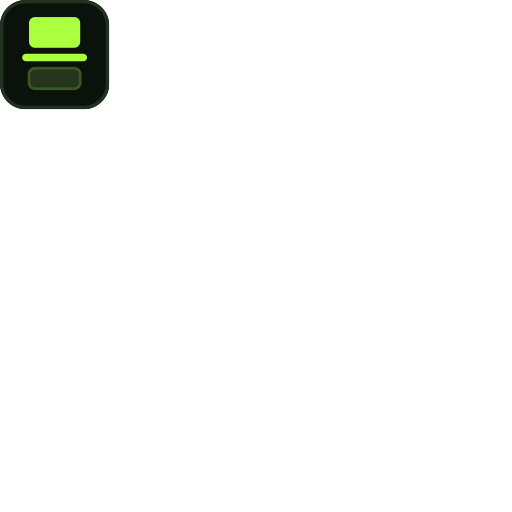
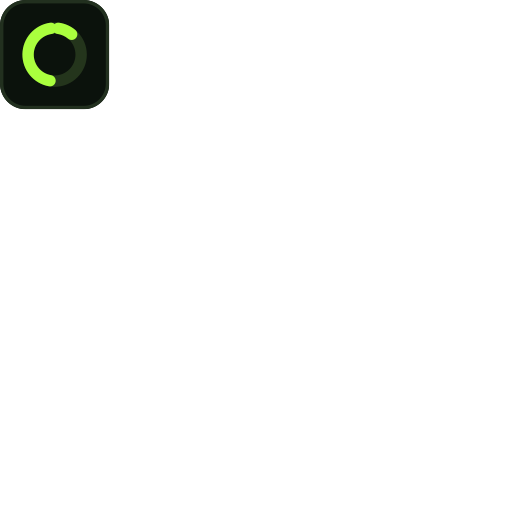
Return to Overfunded with a new gauge mark
The name goes back to Overfunded: the SolRent-style descriptive names are
already crowded (SolRentClaimer, SolRentClaim, RentSolClaimer, SolRefunds,
RefundYourSOL), and every one of them is an account closer. Sitting in that
pool would blur the one thing that makes this different, for a head term
those incumbents already hold. The SEO lives in the title tags, the field
guide and the blog, none of which depend on the brand.

The mark is now a gauge whose arc climbs past a FULL notch at the top —
overfunded, drawn literally — and it doubles as the O of the wordmark. The
notch is a real gap in the arc rather than a background-coloured overlay, so
it renders correctly on any surface and inherits currentColor.

Full asset set rebuilt: favicon, 512px icon, lockup, 400x400 profile
picture, 1500x500 banner, 1200x630 Open Graph card. Verified legible down
to 16px.

Changed region(s): [[0.0312, 0.0312, 0.1875, 0.1875]]

diff --git a/app/classic/page.tsx b/app/classic/page.tsx
@@ -52,7 +52,7 @@ export default function Home() {
       </div>
 
       <nav className="nav">
-        <a className="brand" href="#top" aria-label="SolRent home"><span className="brand-mark" aria-hidden="true">L</span><span>SOLRENT</span></a>
+        <a className="brand" href="#top" aria-label="Overfunded home"><span className="brand-mark" aria-hidden="true">L</span><span>OVERFUNDED</span></a>
         <div className="nav-links"><a href="#difference">Why different</a><a href="#how">How it works</a><a href="#safety">Safety</a></div>
         <a className="wallet-button" href="/">Open the live app <span aria-hidden="true">↗</span></a>
       </nav>
@@ -85,7 +85,7 @@ export default function Home() {
           </div>
           <div className="never-close-alert" role="note">
             <strong>NO TOKEN ACCOUNTS ARE EVER CLOSED</strong>
-            <span>SolRent withdraws only excess rent. Your accounts and token balances stay intact.</span>
+            <span>Overfunded withdraws only excess rent. Your accounts and token balances stay intact.</span>
           </div>
           {isResults && <div className="fee-preview"><span>Service fee <b>0.004210 SOL</b></span><span>You receive <strong>0.079985 SOL</strong></span></div>}
           <button className="reclaim-button" type="button" disabled={busy} onClick={isResults ? reclaimDemo : loadDemo}>{isResults ? 'Play the demo reclaim (0.079985 SOL)' : busy ? 'Scanning accounts…' : 'Run the demo scan'}</button>
@@ -109,7 +109,7 @@ export default function Home() {
         <div className="update-facts">
           <article><span>01</span><b>The network lowers rent</b><p>The required minimum changes as the reduced-rent rollout advances.</p></article>
           <article><span>02</span><b>Your account keeps the old deposit</b><p>Nothing automatically sweeps the surplus back to your wallet.</p></article>
-          <article><span>03</span><b>SolRent returns the difference</b><p>Withdraw only the excess and leave the account live and rent-exempt.</p></article>
+          <article><span>03</span><b>Overfunded returns the difference</b><p>Withdraw only the excess and leave the account live and rent-exempt.</p></article>
           <a href="https://solana.com/upgrades/reduced-rent" target="_blank" rel="noreferrer">Follow Solana’s official rollout <span>↗</span></a>
         </div>
       </section>
@@ -128,7 +128,7 @@ export default function Home() {
             <i>MODELLED ESTIMATE • NOT A LIVE BALANCE</i>
           </article>
           <article>
-            <span>CLAIMED THROUGH SOLRENT</span>
+            <span>CLAIMED THROUGH OVERFUNDED</span>
             <strong>$0</strong>
             <p>Pre-launch baseline. This counter will increase only after confirmed reclaim transactions.</p>
             <i>VERIFIABLE PRODUCT COUNTER</i>
@@ -170,7 +170,7 @@ export default function Home() {
         <div className="difference-heading">
           <p className="section-kicker">NOT ANOTHER INCINERATOR</p>
           <h2>Recover the surplus.<br /><em>Keep the account.</em></h2>
-          <p>Traditional cleanup tools recover rent by permanently closing eligible token accounts. SolRent uses a different Token Program instruction that withdraws only what sits above today’s rent floor.</p>
+          <p>Traditional cleanup tools recover rent by permanently closing eligible token accounts. Overfunded uses a different Token Program instruction that withdraws only what sits above today’s rent floor.</p>
         </div>
         <div className="comparison-wrap">
           <div className="comparison-cards">
@@ -181,13 +181,13 @@ export default function Home() {
             </article>
             <div className="versus">VS</div>
             <article className="compare-card lamport-card">
-              <div className="compare-top"><span>SOLRENT RECLAIM</span><i>NON-DESTRUCTIVE</i></div>
+              <div className="compare-top"><span>OVERFUNDED RECLAIM</span><i>NON-DESTRUCTIVE</i></div>
               <div className="account-visual"><div className="account-symbol">◎</div><div><b>Token account</b><span>8kP3…xR42</span></div><strong>OPEN</strong></div>
               <p>Recovers only the excess. The account keeps its address, tokens, and current rent reserve.</p>
             </article>
           </div>
-          <div className="comparison-table" role="table" aria-label="Account closer compared with SolRent">
-            <div className="compare-row compare-head" role="row"><span role="columnheader">WHAT CHANGES</span><b role="columnheader">ACCOUNT CLOSER</b><strong role="columnheader">SOLRENT</strong></div>
+          <div className="comparison-table" role="table" aria-label="Account closer compared with Overfunded">
+            <div className="compare-row compare-head" role="row"><span role="columnheader">WHAT CHANGES</span><b role="columnheader">ACCOUNT CLOSER</b><strong role="columnheader">OVERFUNDED</strong></div>
             <div className="compare-row" role="row"><span role="cell">Instruction</span><b role="cell">CloseAccount</b><strong role="cell">WithdrawExcessLamports</strong></div>
             <div className="compare-row" role="row"><span role="cell">Account afterward</span><b role="cell">Deleted</b><strong role="cell">Stays open</strong></div>
             <div className="compare-row" role="row"><span role="cell">Token balance</span><b role="cell">Must be handled first</b><strong role="cell">Untouched</strong></div>
@@ -195,7 +195,7 @@ export default function Home() {
             <div className="compare-row" role="row"><span role="cell">SOL recovered</span><b role="cell">Entire rent reserve</b><strong role="cell">Only the new surplus</strong></div>
             <div className="compare-row" role="row"><span role="cell">Best for</span><b role="cell">Dead, empty accounts</b><strong role="cell">Active accounts you keep</strong></div>
           </div>
-          <p className="difference-note"><b>Zero close instructions.</b> A SolRent reclaim transaction contains no account-closing step. You review every instruction before signing.</p>
+          <p className="difference-note"><b>Zero close instructions.</b> A Overfunded reclaim transaction contains no account-closing step. You review every instruction before signing.</p>
         </div>
       </section>
 
@@ -253,7 +253,7 @@ export default function Home() {
       </section>
 
       <footer>
-        <a className="brand footer-brand" href="#top"><span className="brand-mark" aria-hidden="true">L</span><span>SOLRENT</span></a>
+        <a className="brand footer-brand" href="#top"><span className="brand-mark" aria-hidden="true">L</span><span>OVERFUNDED</span></a>
         <p>Built for Solana’s reduced-rent era.</p>
         <div><a href="https://solana.com/upgrades/reduced-rent" target="_blank" rel="noreferrer">Rent rollout</a><a href="/">Live app</a><a href="#safety">Safety</a></div>
       </footer>

diff --git a/app/fun/page.tsx b/app/fun/page.tsx
@@ -25,7 +25,7 @@ export default function FunPrototype() {
         <span>SOLANA RENT DROPPED&nbsp; ✦ &nbsp;YOUR ACCOUNTS STAY OPEN&nbsp; ✦ &nbsp;CLAIM THE EXTRA&nbsp; ✦ &nbsp;SOLANA RENT DROPPED</span>
       </div>
       <nav className="fun-nav">
-        <a className="fun-brand" href="/fun"><i><BrandMark /></i><b>SOLRENT</b><em>FUN LAB</em></a>
+        <a className="fun-brand" href="/fun"><i><BrandMark /></i><b>OVERFUNDED</b><em>FUN LAB</em></a>
         <div className="fun-nav-links"><a href="#why">Why different</a><a href="#how">How it works</a><a href="/solana-rent-reduction">How the cut works ↗</a></div>
         <a className="fun-nav-cta" href="/">OPEN LIVE APP <span>↗</span></a>
       </nav>
@@ -34,7 +34,7 @@ export default function FunPrototype() {
         <div className="fun-hero-copy">
           <div className="fun-badge"><span>●</span> SOLANA JUST CHANGED THE RENT RULES</div>
           <h1>Your SOL is<br /><em>hiding in plain sight.</em></h1>
-          <p>Old token accounts may be holding more rent than they need. SolRent finds the extra and sends it home—without deleting a thing.</p>
+          <p>Old token accounts may be holding more rent than they need. Overfunded finds the extra and sends it home—without deleting a thing.</p>
           <div className="fun-actions">
             <button className="fun-primary" type="button" onClick={runDemo}>FIND MY SOL <span>→</span></button>
             <a href="#why">WHY THIS IS DIFFERENT</a>
@@ -58,7 +58,7 @@ export default function FunPrototype() {
         <div className="fun-section-heading">
           <p>THE SERIOUS PART</p>
           <h2>Fun on the surface.<br /><em>Strict underneath.</em></h2>
-          <span>SolRent is not an account burner. It uses the Token Program’s excess-lamport withdrawal path to move only what sits above today’s rent floor.</span>
+          <span>Overfunded is not an account burner. It uses the Token Program’s excess-lamport withdrawal path to move only what sits above today’s rent floor.</span>
         </div>
         <div className="fun-proof-grid">
           <article className="fun-proof-hero">
@@ -72,8 +72,8 @@ export default function FunPrototype() {
         </div>
       </section>
 
-      <section className="fun-versus" aria-label="Account closing compared with SolRent reclaim">
-        <div className="fun-versus-title"><span>DELETE BUTTON ENERGY</span><h2>Burner <b>vs.</b> SolRent</h2></div>
+      <section className="fun-versus" aria-label="Account closing compared with Overfunded reclaim">
+        <div className="fun-versus-title"><span>DELETE BUTTON ENERGY</span><h2>Burner <b>vs.</b> Overfunded</h2></div>
         <div className="fun-versus-card bad">
           <div className="fun-card-tag">TRADITIONAL CLOSER</div>
           <strong>ACCOUNT DELETED</strong>
@@ -81,7 +81,7 @@ export default function FunPrototype() {
           <p>Recovers the full rent deposit by permanently closing an eligible empty account.</p>
         </div>
         <div className="fun-versus-card good">
-          <div className="fun-card-tag">SOLRENT RECLAIM</div>
+          <div className="fun-card-tag">OVERFUNDED RECLAIM</div>
           <strong>ONLY EXTRA SOL MOVES</strong>
           <div className="fun-mini-account"><i>◎</i><span>Token account<br /><small>8kP3…xR42</small></span><b>OPEN</b></div>
           <p>Leaves the current rent reserve, account address, and every token exactly where they are.</p>
@@ -100,7 +100,7 @@ export default function FunPrototype() {
       <section className="fun-ledger">
         <div className="fun-ledger-copy"><p>THE BIG NUMBER, LABELED HONESTLY</p><h2>A lot of SOL may be<br /><em>waiting for a ride home.</em></h2><span>Network figures are estimates until a complete public index is running. Your personal result is calculated account by account.</span></div>
         <div className="fun-number-card"><small>MODELED NETWORK OPPORTUNITY</small><strong>~$310M</strong><p>Directional estimate across the complete reduced-rent rollout—not a live wallet balance or audited total.</p><i>ESTIMATE · CHANGES WITH SOL PRICE + NETWORK STATE</i></div>
-        <div className="fun-number-card small"><small>CLAIMED THROUGH SOLRENT</small><strong>$0</strong><p>Pre-launch baseline. This moves only after confirmed reclaim transactions.</p><i>VERIFIABLE PRODUCT COUNTER</i></div>
+        <div className="fun-number-card small"><small>CLAIMED THROUGH OVERFUNDED</small><strong>$0</strong><p>Pre-launch baseline. This moves only after confirmed reclaim transactions.</p><i>VERIFIABLE PRODUCT COUNTER</i></div>
       </section>
 
       <section className="fun-final">
@@ -111,7 +111,7 @@ export default function FunPrototype() {
         <a href="/">Reclaim real SOL on the live app ↗</a>
       </section>
 
-      <footer className="fun-footer"><a className="fun-brand" href="/fun"><i><BrandMark /></i><b>SOLRENT</b><em>FUN LAB</em></a><p>Built for Solana’s reduced-rent era.</p><div><a href="/">Live app</a><a href="/solana-rent-reduction">How the cut works</a><a href="#why">Safety</a></div></footer>
+      <footer className="fun-footer"><a className="fun-brand" href="/fun"><i><BrandMark /></i><b>OVERFUNDED</b><em>FUN LAB</em></a><p>Built for Solana’s reduced-rent era.</p><div><a href="/">Live app</a><a href="/solana-rent-reduction">How the cut works</a><a href="#why">Safety</a></div></footer>
     </main>
   );
 }

diff --git a/app/game/page.tsx b/app/game/page.tsx
@@ -247,7 +247,7 @@ export default function GamePrototype() {
   return (
     <main className={`game-shell quest-${quest} ${accounts.length ? 'has-loot' : 'no-loot'}`}>
       <nav className="game-nav">
-        <a className="game-brand" href="/"><i><BrandMark /></i><span><b>SOLRENT</b><small>SOLANA RENT</small></span></a>
+        <a className="game-brand" href="/"><i><BrandMark /></i><span><b>OVERFUNDED</b><small>SOLANA RENT</small></span></a>
         <div className="game-nav-stats"><span>MODE <b>SAFE</b></span><span>ACCOUNTS CLOSED <b>0</b></span><span>NETWORK <b>MAINNET</b></span></div>
         <button type="button" onClick={connectAndScan} disabled={busy}>{wallet ? shortenAddress(wallet) : busy ? 'SCANNING…' : 'CONNECT WALLET'} <span>+</span></button>
       </nav>
@@ -505,20 +505,20 @@ export default function GamePrototype() {
       </section>
 
       <section className="game-battle" id="safety">
-        <div className="battle-head"><small>KNOW YOUR OPPONENT</small><h2>This is not<br /><em>an incinerator.</em></h2><p>Traditional cleanup tools reclaim rent by closing eligible accounts. SolRent’s target is different: surplus rent inside accounts you want to keep.</p></div>
+        <div className="battle-head"><small>KNOW YOUR OPPONENT</small><h2>This is not<br /><em>an incinerator.</em></h2><p>Traditional cleanup tools reclaim rent by closing eligible accounts. Overfunded’s target is different: surplus rent inside accounts you want to keep.</p></div>
         <div className="battle-arena">
           <article className="battle-card enemy"><div className="battle-name"><span>ACCOUNT CLOSER</span><b>DESTRUCTIVE MOVE</b></div><i className="battle-icon">×</i><strong>CLOSE ACCOUNT</strong><ul><li>Account is deleted</li><li>Address stops working</li><li>Empty balance required</li></ul><em>USE ON DEAD ACCOUNTS</em></article>
           <div className="battle-vs">VS</div>
-          <article className="battle-card hero"><div className="battle-name"><span>SOLRENT</span><b>SAFE MOVE</b></div><i className="battle-icon">L</i><strong>WITHDRAW EXCESS</strong><ul><li>Account stays open</li><li>Address stays usable</li><li>Tokens stay untouched</li></ul><em>USE ON LIVE ACCOUNTS</em></article>
+          <article className="battle-card hero"><div className="battle-name"><span>OVERFUNDED</span><b>SAFE MOVE</b></div><i className="battle-icon">L</i><strong>WITHDRAW EXCESS</strong><ul><li>Account stays open</li><li>Address stays usable</li><li>Tokens stay untouched</li></ul><em>USE ON LIVE ACCOUNTS</em></article>
         </div>
-        <div className="battle-alert"><b>!</b><span><strong>PERMADEATH DISABLED</strong>No account-closing instruction appears in a SolRent reclaim transaction.</span><i>0 CLOSED</i></div>
+        <div className="battle-alert"><b>!</b><span><strong>PERMADEATH DISABLED</strong>No account-closing instruction appears in a Overfunded reclaim transaction.</span><i>0 CLOSED</i></div>
         <div className="battle-source"><div><b>DON’T TAKE OUR WORD FOR IT</b><span>Every instruction this site builds is in the open. Read the transaction builder, check the fee maths, and verify the rent floor against your own node.</span></div><a href={SOURCE_URL} target="_blank" rel="noreferrer">READ THE SOURCE ON GITHUB ↗</a></div>
       </section>
 
       <section className="game-ledger">
         <div className="ledger-title"><small>WORLD MAP</small><h2>The rent-recovery<br /><em>opportunity.</em></h2><p>Network totals are modeled estimates. Your actual result is calculated from the public state of the accounts in your wallet.</p></div>
         <div className="ledger-screen primary"><span>ESTIMATED LEFT TO UNLOCK</span><strong>~$310M</strong><p>Directional estimate across the complete reduced-rent rollout.</p><i>MODELLED · NOT A LIVE BALANCE</i></div>
-        <div className="ledger-screen"><span>CLAIMED THROUGH SOLRENT</span><strong>$0</strong><p>Pre-launch baseline. Updates only after verified reclaim transactions.</p><i>VERIFIABLE COUNTER</i></div>
+        <div className="ledger-screen"><span>CLAIMED THROUGH OVERFUNDED</span><strong>$0</strong><p>Pre-launch baseline. Updates only after verified reclaim transactions.</p><i>VERIFIABLE COUNTER</i></div>
         <div className="ledger-screen"><span>ACCOUNTS CLOSED</span><strong>0</strong><p>The defining score. It never moves.</p><i>NON-DESTRUCTIVE FOREVER</i></div>
       </section>
 
@@ -562,7 +562,7 @@ export default function GamePrototype() {
         ]) }}
       />
 
-      <footer className="game-footer"><a className="game-brand" href="/"><i><BrandMark /></i><span><b>SOLRENT</b><small>SOLANA RENT</small></span></a><p>BUILT FOR SOLANA’S REDUCED-RENT ERA</p><div><a href="/blog">Blog</a><a href="/solana-rent-reduction">How the cut works</a><a href={SOURCE_URL} target="_blank" rel="noreferrer">Source</a><a href="#safety">Safety</a></div></footer>
+      <footer className="game-footer"><a className="game-brand" href="/"><i><BrandMark /></i><span><b>OVERFUNDED</b><small>SOLANA RENT</small></span></a><p>BUILT FOR SOLANA’S REDUCED-RENT ERA</p><div><a href="/blog">Blog</a><a href="/solana-rent-reduction">How the cut works</a><a href={SOURCE_URL} target="_blank" rel="noreferrer">Source</a><a href="#safety">Safety</a></div></footer>
     </main>
   );
 }

diff --git a/app/blog/[slug]/page.tsx b/app/blog/[slug]/page.tsx
@@ -58,7 +58,7 @@ export default async function BlogPost({ params }: { params: Promise<{ slug: str
   return (
     <main className="blog-shell">
       <nav className="blog-nav">
-        <a className="blog-brand" href="/"><i><BrandMark /></i><span><b>SOLRENT</b><small>SOLANA RENT</small></span></a>
+        <a className="blog-brand" href="/"><i><BrandMark /></i><span><b>OVERFUNDED</b><small>SOLANA RENT</small></span></a>
         <a className="blog-nav-cta" href="/">SCAN MY WALLET →</a>
       </nav>
 
@@ -78,7 +78,7 @@ export default async function BlogPost({ params }: { params: Promise<{ slug: str
         <div className="post-inline-cta">
           <div>
             <b>SEE IT ON YOUR OWN WALLET</b>
-            <span>SolRent scans your SPL token accounts against the live rent floor and withdraws only the surplus. Nothing is closed, no tokens move, and the source is public.</span>
+            <span>Overfunded scans your SPL token accounts against the live rent floor and withdraws only the surplus. Nothing is closed, no tokens move, and the source is public.</span>
           </div>
           <a href="/">SCAN MY WALLET →</a>
         </div>
@@ -101,14 +101,14 @@ export default async function BlogPost({ params }: { params: Promise<{ slug: str
           description: post.description,
           datePublished: post.published,
           dateModified: post.published,
-          author: { '@type': 'Organization', name: 'SolRent' },
-          publisher: { '@type': 'Organization', name: 'SolRent' },
+          author: { '@type': 'Organization', name: 'Overfunded' },
+          publisher: { '@type': 'Organization', name: 'Overfunded' },
           mainEntityOfPage: { '@type': 'WebPage', '@id': `/blog/${post.slug}` },
         }) }}
       />
 
       <footer className="blog-footer">
-        <a className="blog-brand" href="/"><i><BrandMark /></i><span><b>SOLRENT</b><small>SOLANA RENT</small></span></a>
+        <a className="blog-brand" href="/"><i><BrandMark /></i><span><b>OVERFUNDED</b><small>SOLANA RENT</small></span></a>
         <div>
           <a href="/">Scanner</a>
           <a href="/blog">Writing</a>

diff --git a/app/solana-rent-reduction/page.tsx b/app/solana-rent-reduction/page.tsx
@@ -39,7 +39,7 @@ const FAQ = [
   },
   {
     q: 'Does reclaiming rent close my token accounts?',
-    a: 'No. SolRent uses WithdrawExcessLamports, which moves only the balance above the current rent-exempt minimum. The account stays open, stays rent-exempt, keeps its address, and keeps every token. No CloseAccount, Burn, or token transfer instruction is ever added.',
+    a: 'No. Overfunded uses WithdrawExcessLamports, which moves only the balance above the current rent-exempt minimum. The account stays open, stays rent-exempt, keeps its address, and keeps every token. No CloseAccount, Burn, or token transfer instruction is ever added.',
   },
   {
     q: 'Is it safe to connect my wallet?',
@@ -78,7 +78,7 @@ export default function RentCutPage() {
   return (
     <main className="srr-shell">
       <nav className="srr-nav">
-        <a className="srr-brand" href="/"><i><BrandMark /></i><span><b>SOLRENT</b><small>FIELD GUIDE</small></span></a>
+        <a className="srr-brand" href="/"><i><BrandMark /></i><span><b>OVERFUNDED</b><small>FIELD GUIDE</small></span></a>
         <a className="srr-nav-cta" href="/">SCAN MY WALLET →</a>
       </nav>
 
@@ -306,7 +306,7 @@ export default function RentCutPage() {
       </section>
 
       <footer className="srr-footer">
-        <a className="srr-brand" href="/"><i><BrandMark /></i><span><b>SOLRENT</b><small>FIELD GUIDE</small></span></a>
+        <a className="srr-brand" href="/"><i><BrandMark /></i><span><b>OVERFUNDED</b><small>FIELD GUIDE</small></span></a>
         <p>BUILT FOR SOLANA’S REDUCED-RENT ERA</p>
         <div><a href="/">Scanner</a><a href="/blog">Blog</a><a href={SOURCE_URL} target="_blank" rel="noreferrer">Source</a></div>
       </footer>

diff --git a/app/brand-mark.tsx b/app/brand-mark.tsx
@@ -1,10 +1,15 @@
-/** The SolRent mark: the surplus you reclaim, the rent floor, the deposit that stays. */
+/**
+ * The Overfunded mark: a gauge whose arc climbs past the FULL notch at the top.
+ * The gap is a real break in the arc rather than a background-coloured overlay,
+ * so the mark sits correctly on any surface, and currentColor lets it inherit
+ * whatever accent its brand context uses.
+ */
 export function BrandMark() {
   return (
     <svg viewBox="0 0 64 64" aria-hidden="true" focusable="false">
-      <rect x="17" y="10" width="30" height="18" rx="3.5" fill="currentColor" />
-      <rect x="13" y="31.5" width="38" height="4.4" rx="2.2" fill="currentColor" />
-      <rect x="17" y="40" width="30" height="12" rx="3.5" fill="currentColor" opacity="0.3" />
+      <circle cx="32" cy="32" r="21" fill="none" stroke="currentColor" strokeWidth="9" opacity="0.22" />
+      <path d="M 28.35 52.68 A 21 21 0 0 1 29.08 11.20" fill="none" stroke="currentColor" strokeWidth="9" strokeLinecap="round" />
+      <path d="M 34.92 11.20 A 21 21 0 0 1 45.50 15.91" fill="none" stroke="currentColor" strokeWidth="9" strokeLinecap="round" />
     </svg>
   );
 }

diff --git a/app/blog/page.tsx b/app/blog/page.tsx
@@ -13,7 +13,7 @@ export default function BlogIndex() {
   return (
     <main className="blog-shell">
       <nav className="blog-nav">
-        <a className="blog-brand" href="/"><i><BrandMark /></i><span><b>SOLRENT</b><small>SOLANA RENT</small></span></a>
+        <a className="blog-brand" href="/"><i><BrandMark /></i><span><b>OVERFUNDED</b><small>SOLANA RENT</small></span></a>
         <a className="blog-nav-cta" href="/">SCAN MY WALLET →</a>
       </nav>
 
@@ -50,7 +50,7 @@ export default function BlogIndex() {
       </section>
 
       <footer className="blog-footer">
-        <a className="blog-brand" href="/"><i><BrandMark /></i><span><b>SOLRENT</b><small>SOLANA RENT</small></span></a>
+        <a className="blog-brand" href="/"><i><BrandMark /></i><span><b>OVERFUNDED</b><small>SOLANA RENT</small></span></a>
         <div>
           <a href="/">Scanner</a>
           <a href="/solana-rent-reduction">Field guide</a>

diff --git a/app/layout.tsx b/app/layout.tsx
@@ -26,7 +26,7 @@ export const metadata: Metadata = {
     locale: 'en_US',
     title: 'Reclaim Solana Rent — Recover Excess SOL Without Closing Token Accounts',
     description: 'Solana lowered the rent-exempt minimum under SIMD-0437. Scan your SPL token accounts and reclaim the excess rent with WithdrawExcessLamports — no accounts closed, no tokens touched.',
-    images: [{ url: '/og.png', width: 1200, height: 630, alt: 'SolRent — reclaim excess Solana rent' }],
+    images: [{ url: '/og.png', width: 1200, height: 630, alt: 'Overfunded — reclaim excess Solana rent' }],
   },
   applicationName: SITE_NAME,
   twitter: {

diff --git a/app/game/layout.tsx b/app/game/layout.tsx
@@ -3,8 +3,8 @@ import './game.css';
 import './game-sections.css';
 
 export const metadata: Metadata = {
-  title: 'SolRent Quest — Unlock your excess SOL',
-  description: 'A game-inspired SolRent prototype that recovers excess Solana rent without closing token accounts.',
+  title: 'Overfunded Quest — Unlock your excess SOL',
+  description: 'A game-inspired Overfunded prototype that recovers excess Solana rent without closing token accounts.',
 };
 
 export default function GameLayout({ children }: Readonly<{ children: React.ReactNode }>) {

diff --git a/app/solana-rent-reduction/layout.tsx b/app/solana-rent-reduction/layout.tsx
@@ -8,7 +8,7 @@ export const metadata: Metadata = {
   openGraph: {
     title: 'Solana Rent Reduction Explained — SIMD-0437, Stage by Stage',
     description: 'A field guide to SIMD-0437 — the five-stage rent-exempt minimum reduction, and the SOL it leaves behind in your token accounts.',
-    images: [{ url: '/og.png', width: 1200, height: 630, alt: 'SolRent — how the Solana rent cut works' }],
+    images: [{ url: '/og.png', width: 1200, height: 630, alt: 'Overfunded — how the Solana rent cut works' }],
   },
 };
 

diff --git a/app/site-config.ts b/app/site-config.ts
@@ -9,7 +9,7 @@ export const SITE_URL = (
   process.env.NEXT_PUBLIC_SITE_URL || 'https://lamport-reclaim-sol.hunrtech.chatgpt.site'
 ).replace(/\/$/, '');
 
-export const SITE_NAME = 'SolRent';
+export const SITE_NAME = 'Overfunded';
 
 /** Public source repository. Update here and every link on the site follows. */
 export const SOURCE_URL = 'https://github.com/poshnet/overfunded';

diff --git a/app/blog/layout.tsx b/app/blog/layout.tsx
@@ -2,7 +2,7 @@ import type { Metadata } from 'next';
 import './blog.css';
 
 export const metadata: Metadata = {
-  title: 'Solana rent, explained — SolRent blog',
+  title: 'Solana rent, explained — Overfunded blog',
   description: 'Plain explanations of Solana account rent, the SIMD-0437 reduction, and how to recover the surplus sitting in your token accounts.',
 };
 
